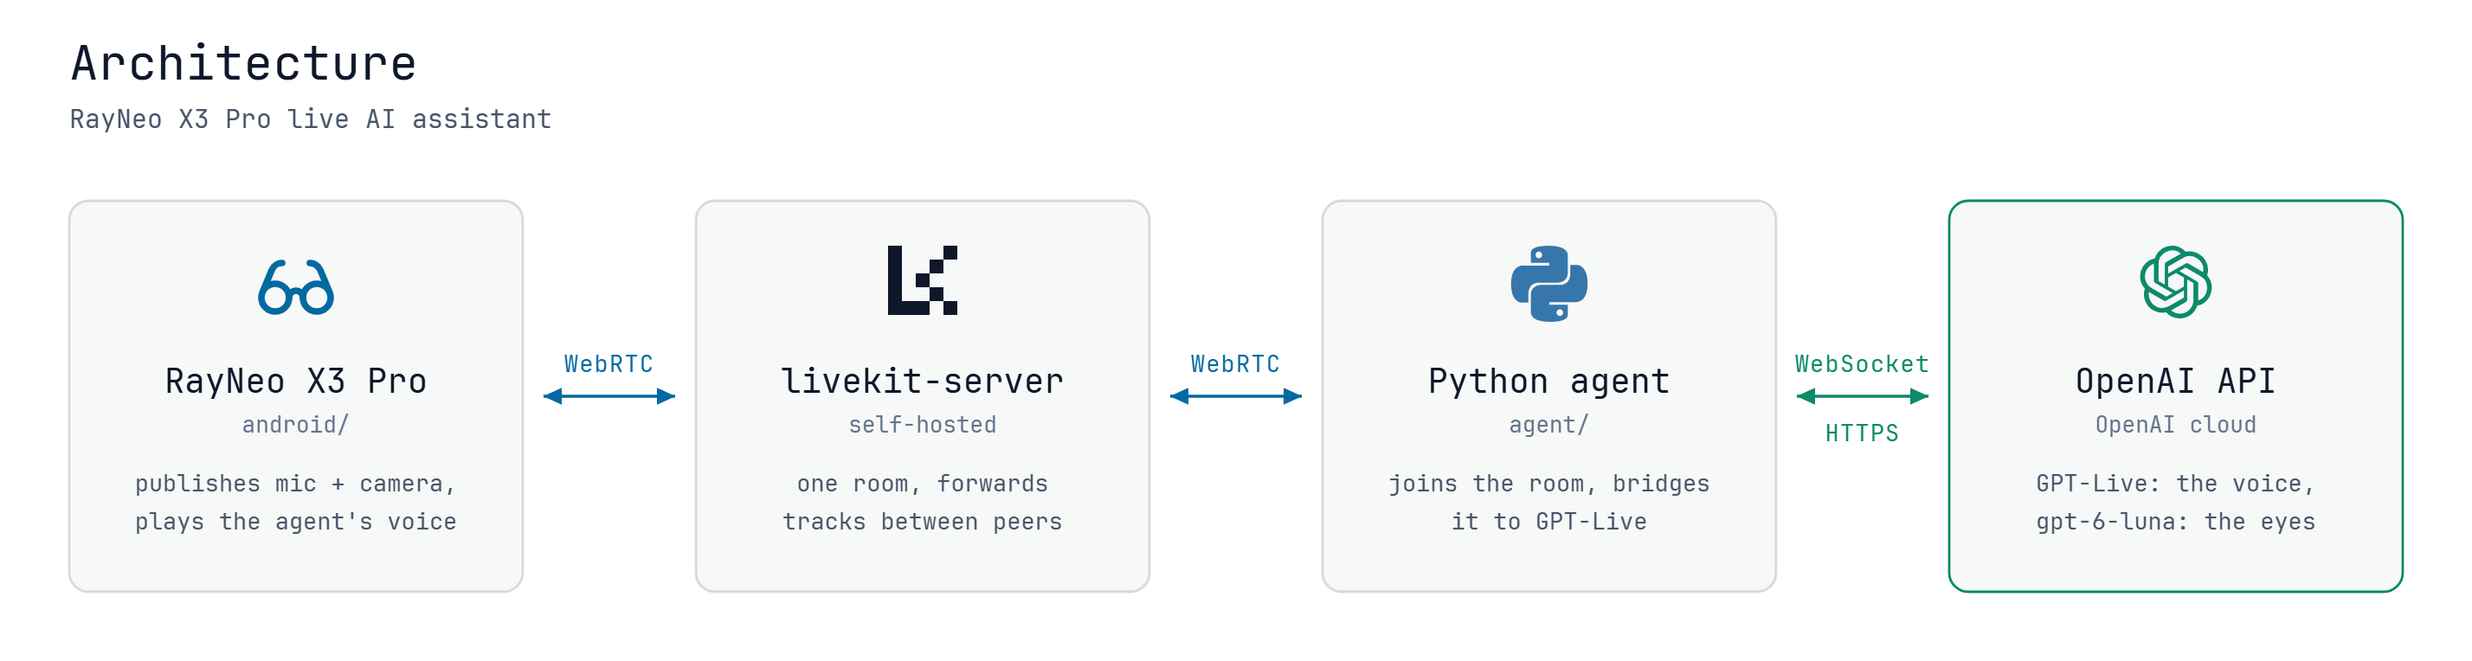
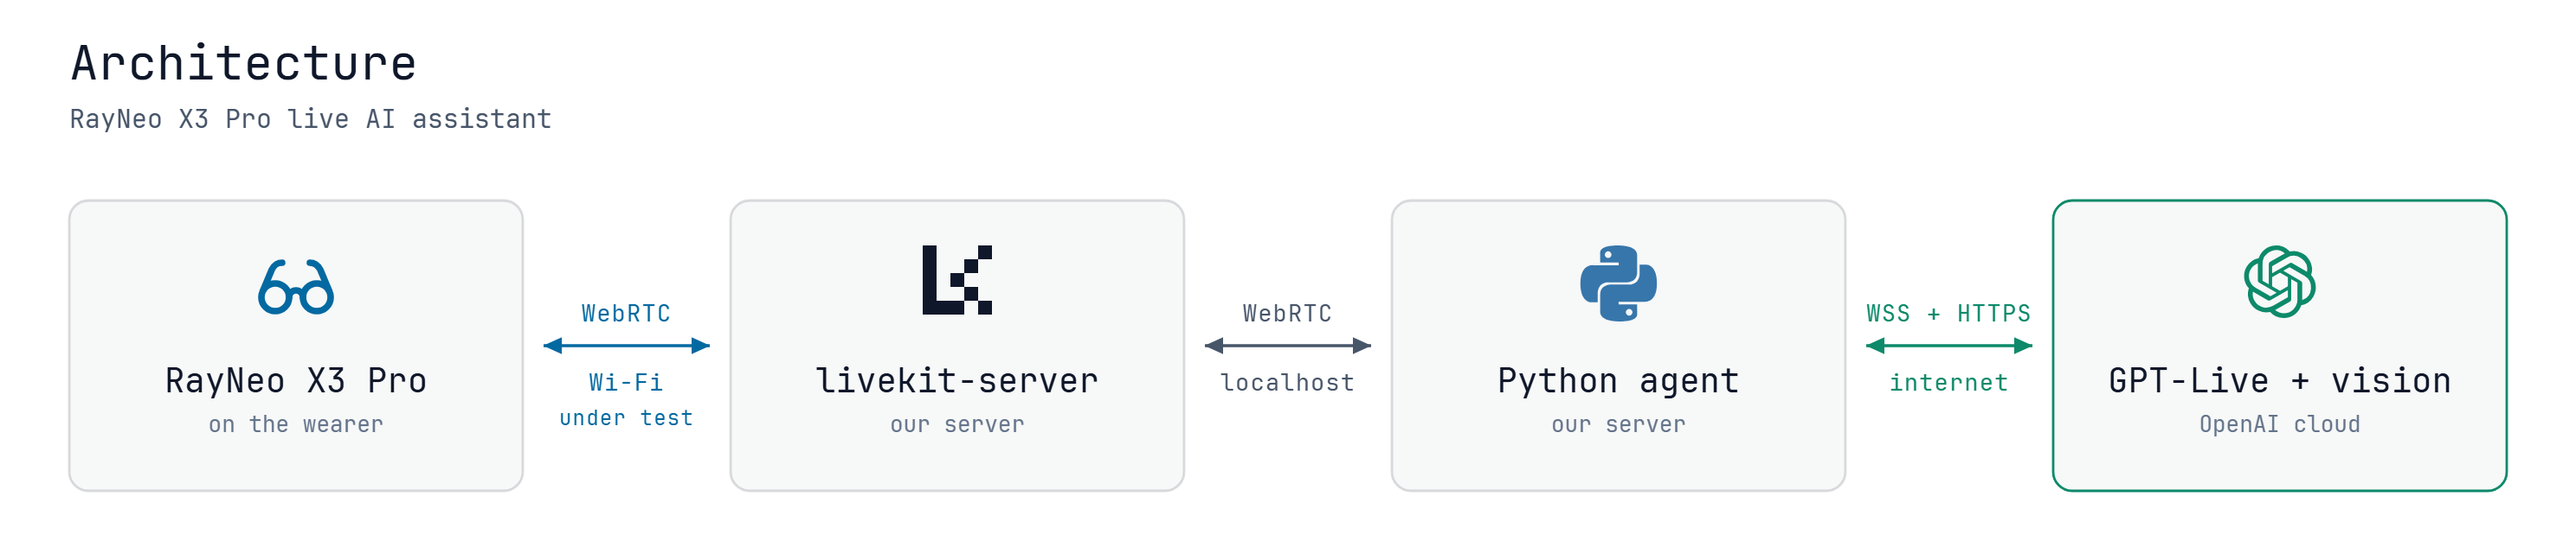
README diagram: cards say where each part runs, links say which network, the Wi-Fi hop marked as under test

diff --git a/docs/make_diagram.py b/docs/make_diagram.py
@@ -31,8 +31,8 @@ MONO = "JetBrains Mono, Cascadia Mono, Consolas, monospace"
 
 # geometry ----------------------------------------------------------------
 PAD = 40           # canvas margin
-CW, CH = 262, 226  # card
-GAP = 100          # between cards — must clear the widest link label
+CW, CH = 262, 168  # card
+GAP = 120          # between cards — must clear the widest link label
 ROW_Y = 116        # top of the card row
 W = PAD * 2 + CW * 4 + GAP * 3
 H = ROW_Y + CH + PAD
@@ -77,6 +77,10 @@ def build(t: dict) -> str:
           markerWidth="6.5" markerHeight="6.5" orient="auto-start-reverse">
     <path d="M0 0.8 L9.2 5 L0 9.2 Z" fill="{t["accent"]}"/>
   </marker>
+  <marker id="headm" viewBox="0 0 10 10" refX="9" refY="5"
+          markerWidth="6.5" markerHeight="6.5" orient="auto-start-reverse">
+    <path d="M0 0.8 L9.2 5 L0 9.2 Z" fill="{t["muted"]}"/>
+  </marker>
   <marker id="headv" viewBox="0 0 10 10" refX="9" refY="5"
           markerWidth="6.5" markerHeight="6.5" orient="auto-start-reverse">
     <path d="M0 0.8 L9.2 5 L0 9.2 Z" fill="{t["cloud"]}"/>
@@ -91,19 +95,16 @@ def build(t: dict) -> str:
 
     glasses = (f'fill="none" stroke="{t["accent"]}" stroke-width="1.9" '
                'stroke-linecap="round" stroke-linejoin="round"')
+    # each card says what it is and where it runs; what it does is in README
     nodes = [
-        ("glasses", glasses, 48, "RayNeo X3 Pro", "android/",
-         ["publishes mic + camera,", "plays the agent's voice"]),
-        ("livekit", f'fill="{t["livekit"]}"', 40, "livekit-server",
-         "self-hosted", ["one room, forwards", "tracks between peers"]),
-        ("python", f'fill="{t["python"]}"', 44, "Python agent", "agent/",
-         ["joins the room, bridges", "it to GPT-Live"]),
-        ("openai", f'fill="{t["cloud"]}"', 42, "OpenAI API",
-         "OpenAI cloud", ["GPT-Live: the voice,", "gpt-6-luna: the eyes"]),
+        ("glasses", glasses, 48, "RayNeo X3 Pro", "on the wearer"),
+        ("livekit", f'fill="{t["livekit"]}"', 40, "livekit-server", "our server"),
+        ("python", f'fill="{t["python"]}"', 44, "Python agent", "our server"),
+        ("openai", f'fill="{t["cloud"]}"', 42, "GPT-Live + vision", "OpenAI cloud"),
     ]
     cols = [PAD + i * (CW + GAP) for i in range(4)]
 
-    for x, (name, style, size, title, sub, lines) in zip(cols, nodes):
+    for x, (name, style, size, title, sub) in zip(cols, nodes):
         cx = x + CW / 2
         edge = t["cloud"] if name == "openai" else t["edge"]
         add(f'<rect x="{x}" y="{ROW_Y}" width="{CW}" height="{CH}" rx="11" '
@@ -113,23 +114,22 @@ def build(t: dict) -> str:
             f'fill="{t["text"]}" text-anchor="middle">{title}</text>')
         add(f'<text x="{cx}" y="{ROW_Y + 134}" font-size="13" '
             f'fill="{t["dim"]}" text-anchor="middle">{sub}</text>')
-        for i, line in enumerate(lines):
-            add(f'<text x="{cx}" y="{ROW_Y + 168 + i * 22}" font-size="13.5" '
-                f'fill="{t["muted"]}" text-anchor="middle">{line}</text>')
 
     link_y = ROW_Y + CH / 2
+    # protocol above the line, the network it crosses below; the first hop is
+    # the one the experiment shapes
     for i, (labels, colour, marker) in enumerate([
-        (["WebRTC"], t["accent"], "head"),
-        (["WebRTC"], t["accent"], "head"),
-        (["WebSocket", "HTTPS"], t["cloud"], "headv"),
+        (["WebRTC", "Wi-Fi", "under test"], t["accent"], "head"),
+        (["WebRTC", "localhost"], t["muted"], "headm"),
+        (["WSS + HTTPS", "internet"], t["cloud"], "headv"),
     ]):
         x1, x2 = cols[i] + CW + 12, cols[i + 1] - 12
         add(f'<line x1="{x1}" y1="{link_y}" x2="{x2}" y2="{link_y}" '
             f'stroke="{colour}" stroke-width="1.8" '
             f'marker-start="url(#{marker})" marker-end="url(#{marker})"/>')
-        # first label above the line, a second one below it
-        for label, y in zip(labels, (link_y - 14, link_y + 26)):
-            add(f'<text x="{(x1 + x2) / 2}" y="{y}" font-size="13.5" '
+        for label, y, size in zip(labels, (link_y - 14, link_y + 26, link_y + 46),
+                                  (13.5, 13.5, 12)):
+            add(f'<text x="{(x1 + x2) / 2}" y="{y}" font-size="{size}" '
                 f'letter-spacing="0.6" fill="{colour}" text-anchor="middle">'
                 f'{label}</text>')
 

diff --git a/README.md b/README.md
@@ -8,9 +8,9 @@ build with LEGO: the model has to see well enough to count the studs on a brick.
 
 <picture>
   <source media="(prefers-color-scheme: dark)" srcset="docs/architecture-dark.png">
-  <img alt="Architecture: the glasses and the Python agent meet in one self-hosted
-LiveKit room; the agent alone talks to OpenAI: GPT-Live over a WebSocket, the vision
-model over HTTPS"
+  <img alt="Architecture: the glasses reach our server over Wi-Fi, the link under test;
+livekit-server and the Python agent share that server; only the agent talks to OpenAI,
+GPT-Live over a WebSocket and the vision model over HTTPS"
        src="docs/architecture-light.png">
 </picture>
 
